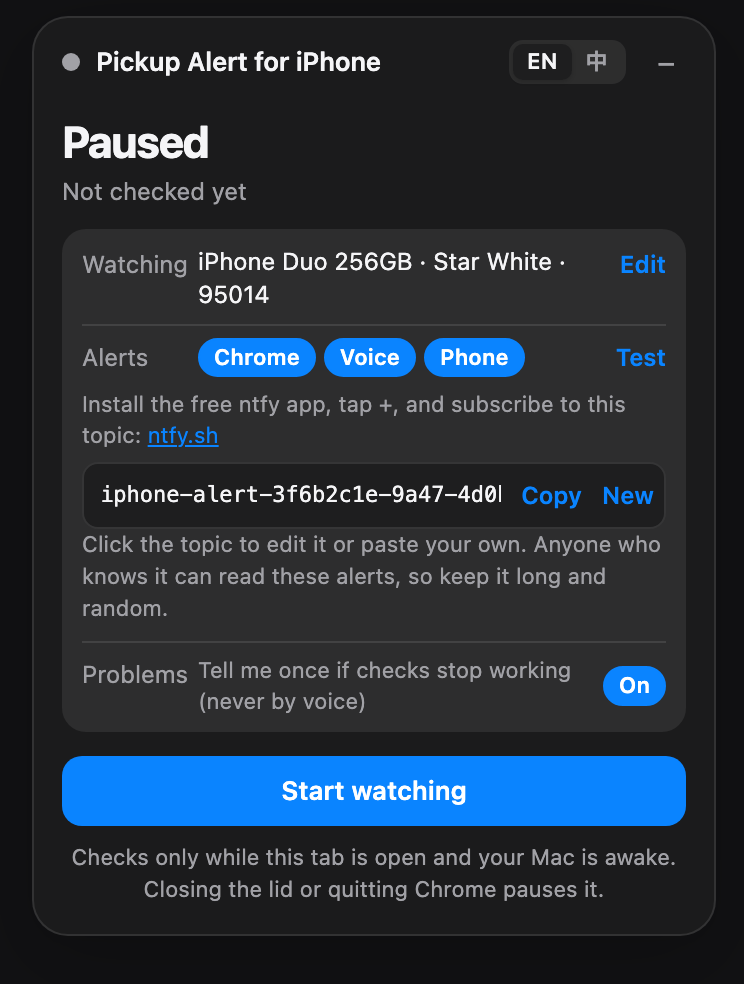
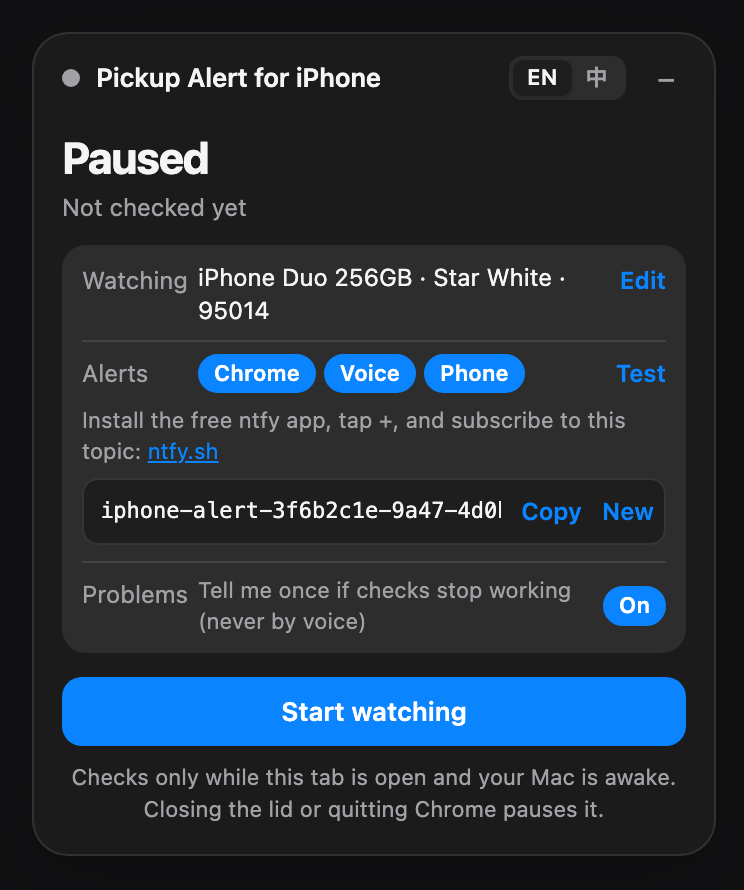
Drop the phone topic hint; show only the invalid-topic error

diff --git a/extension/content.js b/extension/content.js
@@ -54,7 +54,6 @@ const STRINGS = {
     testResult: (list) => `Test sent: ${list}.`,
     chromeHelp: 'No notification? Allow Google Chrome in macOS System Settings → Notifications, and turn off Focus.',
     phoneHow: 'Install the free ntfy app, tap +, and subscribe to this topic:',
-    topicHint: 'Click the topic to edit it or paste your own. Anyone who knows it can read these alerts, so keep it long and random.',
     badTopic: 'Use 1–64 letters, numbers, - or _',
     newTopic: 'New',
     fine: 'Checks only while this tab is open and your Mac is awake. Closing the lid or quitting Chrome pauses it.',
@@ -115,7 +114,6 @@ const STRINGS = {
     testResult: (list) => `已发送测试：${list}。`,
     chromeHelp: '没看到通知？在 macOS 系统设置 → 通知 → Google Chrome 里允许通知，并关掉专注模式。',
     phoneHow: '安装免费的 ntfy App，点 +，订阅这个主题：',
-    topicHint: '点主题名就能修改，或粘贴你自己的主题。知道主题名的人都能看到这些提醒，所以要够长、够随机。',
     badTopic: '只能用 1–64 个字母、数字、- 或 _',
     newTopic: '换一个',
     fine: '只在这个页面开着、Mac 醒着时检查。合上盖子或退出 Chrome 会暂停。',
@@ -321,6 +319,7 @@ root.innerHTML = `
   input:focus, select:focus { border-color: var(--blue); }
   .howto { padding: 0 0 8px; color: var(--muted); font-size: 11px; }
   .howto a { color: var(--blue); }
+  [data-v=badTopic] { margin-top: 4px; color: var(--amber); }
   .code { display: flex; align-items: center; gap: 6px; margin-top: 5px; padding: 5px 5px 5px 8px; border-radius: 8px; background: var(--bg);
           border: 1px solid var(--line); cursor: text; }
   .code:hover { border-color: color-mix(in srgb, var(--fg) 25%, transparent); }
@@ -392,7 +391,7 @@ root.innerHTML = `
       <div class="howto" data-v="phoneHow" hidden>
         <span data-t="phoneHow"></span> <a href="https://ntfy.sh" target="_blank" rel="noopener">ntfy.sh</a>
         <div class="code" data-a="focusTopic"><input class="topic" data-k="ntfyTopic" spellcheck="false" aria-label="ntfy topic"><button class="link" data-copy="topic" data-t="copy"></button><button class="link" data-a="newTopic" data-t="newTopic"></button></div>
-        <div data-v="topicHint"></div>
+        <div data-v="badTopic" data-t="badTopic" hidden></div>
       </div>
       <div class="srow">
         <span class="k" data-t="problems"></span><span class="v hintv" data-v="warnText"></span>
@@ -451,8 +450,7 @@ async function render() {
   $('[data-a=warn]').setAttribute('aria-pressed', String(c.warn));
   const topicInput = $('[data-k=ntfyTopic]');
   if (root.activeElement !== topicInput) topicInput.value = c.ntfyTopic || '';
-  $('[data-v=topicHint]').textContent = view.badTopic ? t('badTopic') : t('topicHint');
-  $('[data-v=topicHint]').style.color = view.badTopic ? 'var(--amber)' : '';
+  $('[data-v=badTopic]').hidden = !view.badTopic;
   $('[data-v=testNote]').hidden = !view.testNote;
   if (view.testNote) {
     const list = view.testNote.map(([k, ok]) => `${t('short')[k]} ${ok ? '✓' : '✗'}`).join(' · ');
